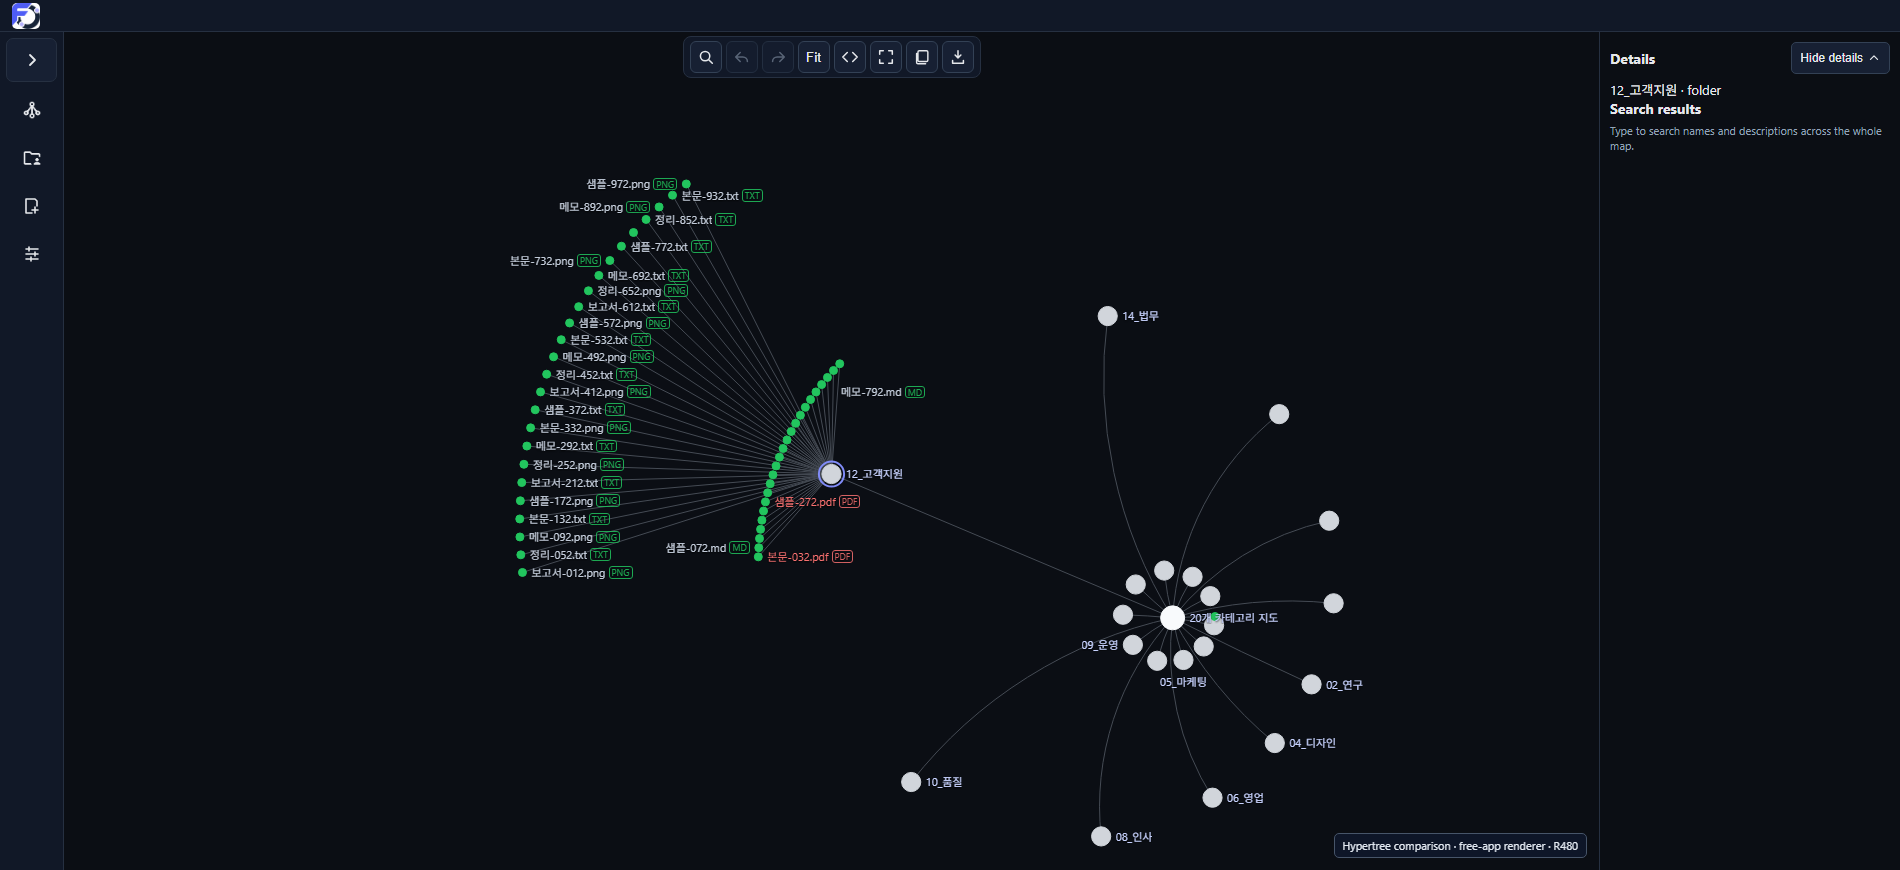
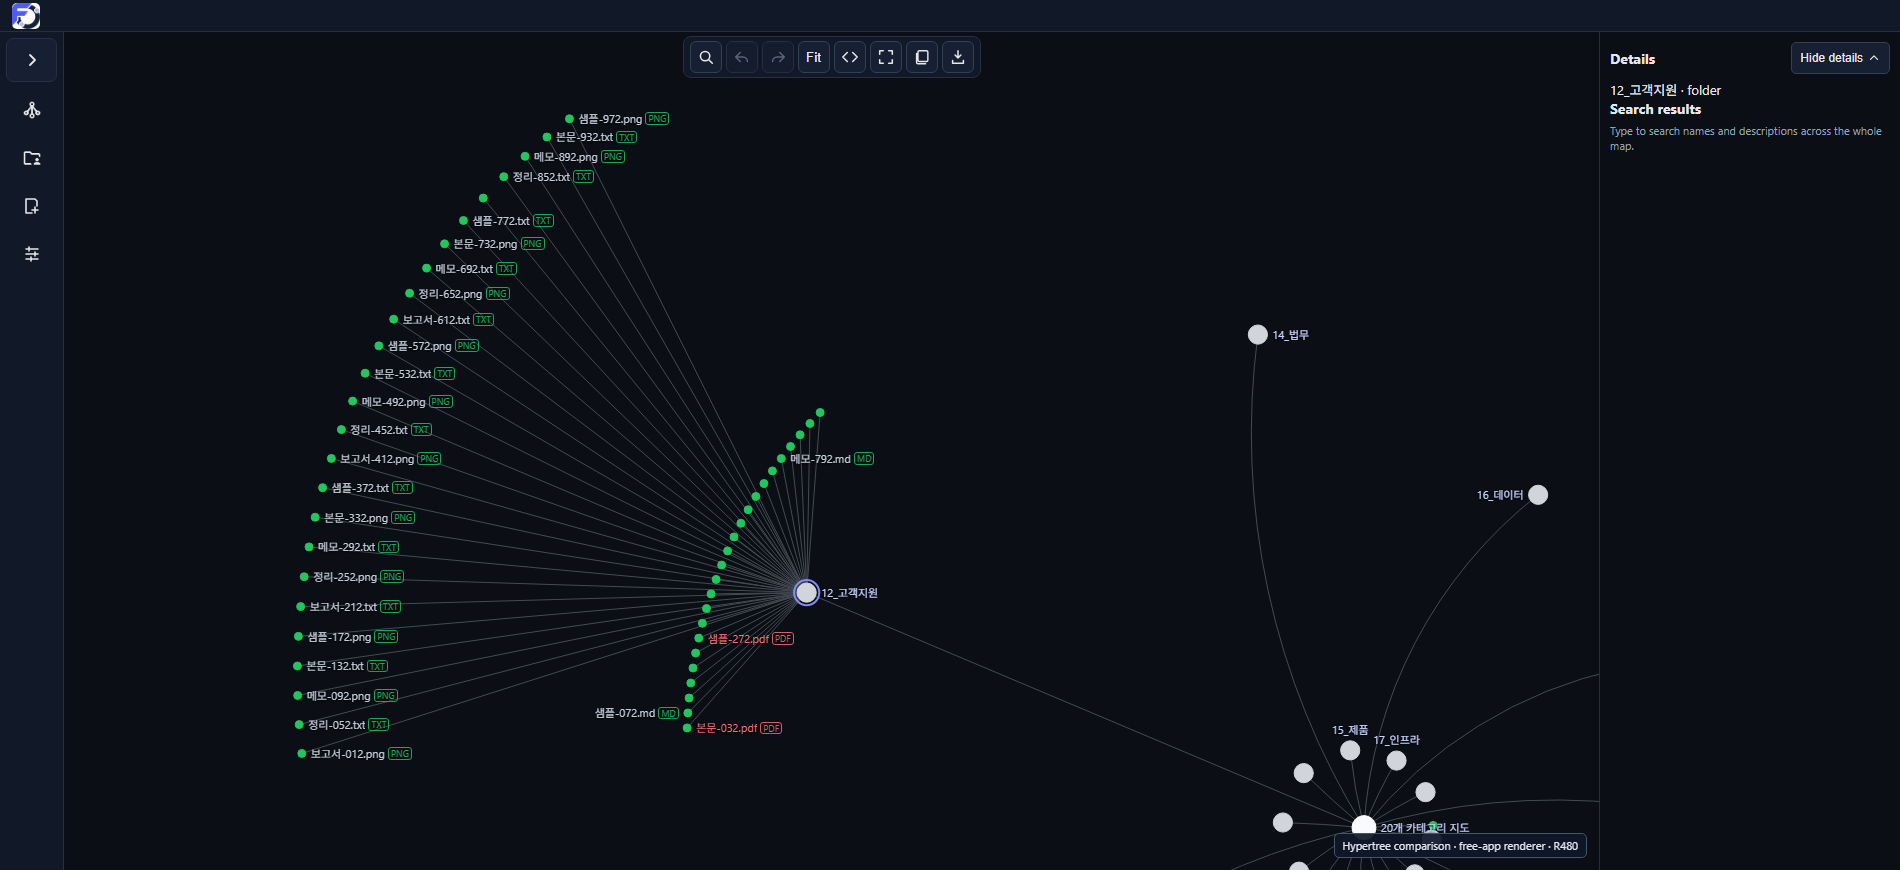
Record active-branch spacing and collision evidence

diff --git a/docs/engine/FILEORBIT-PC-LARGE-MAP-INTEGRATION.md b/docs/engine/FILEORBIT-PC-LARGE-MAP-INTEGRATION.md
@@ -450,3 +450,30 @@ Measured at the default cat-1 focus:
 This is actual glyph overlap at Fit scale, not a radius-only bug. No forced “selected target wins” ordering was added. The tested disambiguation is the visible filename label: it resolves the exact file ID and remains actionable. Dot-center selection is not reported as passing.
 
 Screenshots: `cat12-default-labels.png`, `search-result-f0.png`, `search-result-f1.png`.
+
+## Active-branch focus framing (evaluation branch)
+
+Measured constraint before correction: `centeredFit()` fitted every visible node, including all distant category context. The active cat-12 branch therefore shared the viewport with unrelated branches, keeping glyph centers close together.
+
+Correction: comparison focus frames now fit and center the focused branch bounds (`ancestorIds + descendantIds`) instead of all visible nodes. Ordinary frames and the 300-node path keep the previous all-visible fit. Context outside the fitted branch is clipped by the camera rather than removed from the hierarchy.
+
+Cat-12 at 1900×870 after settling:
+
+- active-branch fit scope: `active-branch`;
+- visible labels: 34;
+- priority labels visible: 30;
+- priority suppressed: 21;
+- label-node overlaps: 2;
+- f-0/f-80 center distance: **12.06 CSS px**;
+- radius sum: **8**;
+- f-0 dot hit: **f-0**;
+- f-80 dot hit: **f-80**;
+- f-0 filename-label hit: **f-0**.
+
+The previous f-0 → f-80 and f-80 → f-160 dot collisions are no longer present in this focused frame.
+
+Cat-1 after search: 60 visible labels; the two same-name results still select f-0/f-1 in cat-1/cat-2.
+
+Automated: search test exit 0, 1900 wheel test exit 0, navigation/label tests 18/18 pass. Existing 1600 wheel evidence was not refreshed after this framing change and is not claimed.
+
+Screenshots: `cat12-default-labels.png`, `search-result-f0.png`, `search-result-f1.png`.

diff --git a/tests/harness/m5-exploration/integration-checks/README.md b/tests/harness/m5-exploration/integration-checks/README.md
@@ -50,3 +50,5 @@ These use test hooks/picker stubs, not native OS acceptance.
 
 
 - `hypertree-search-check.mjs` also records focused label counts and the measured f-0/f-80 glyph overlap before activating both same-name results.
+
+- Active-branch framing: comparison focus fits/centers ancestor+descendant bounds; ordinary framing remains all-visible.
